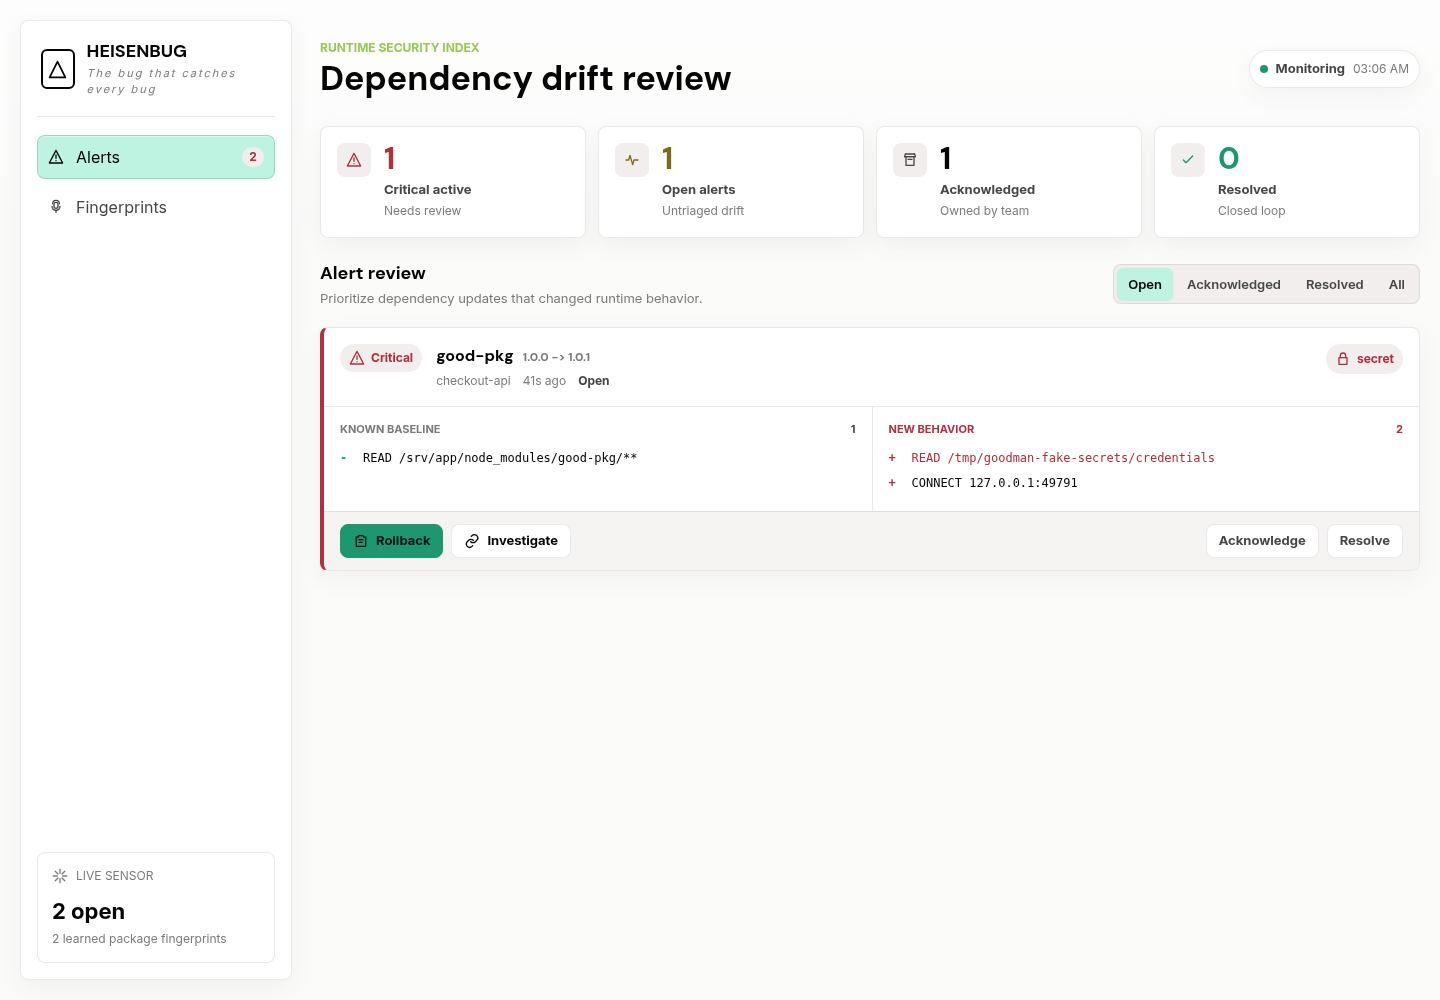
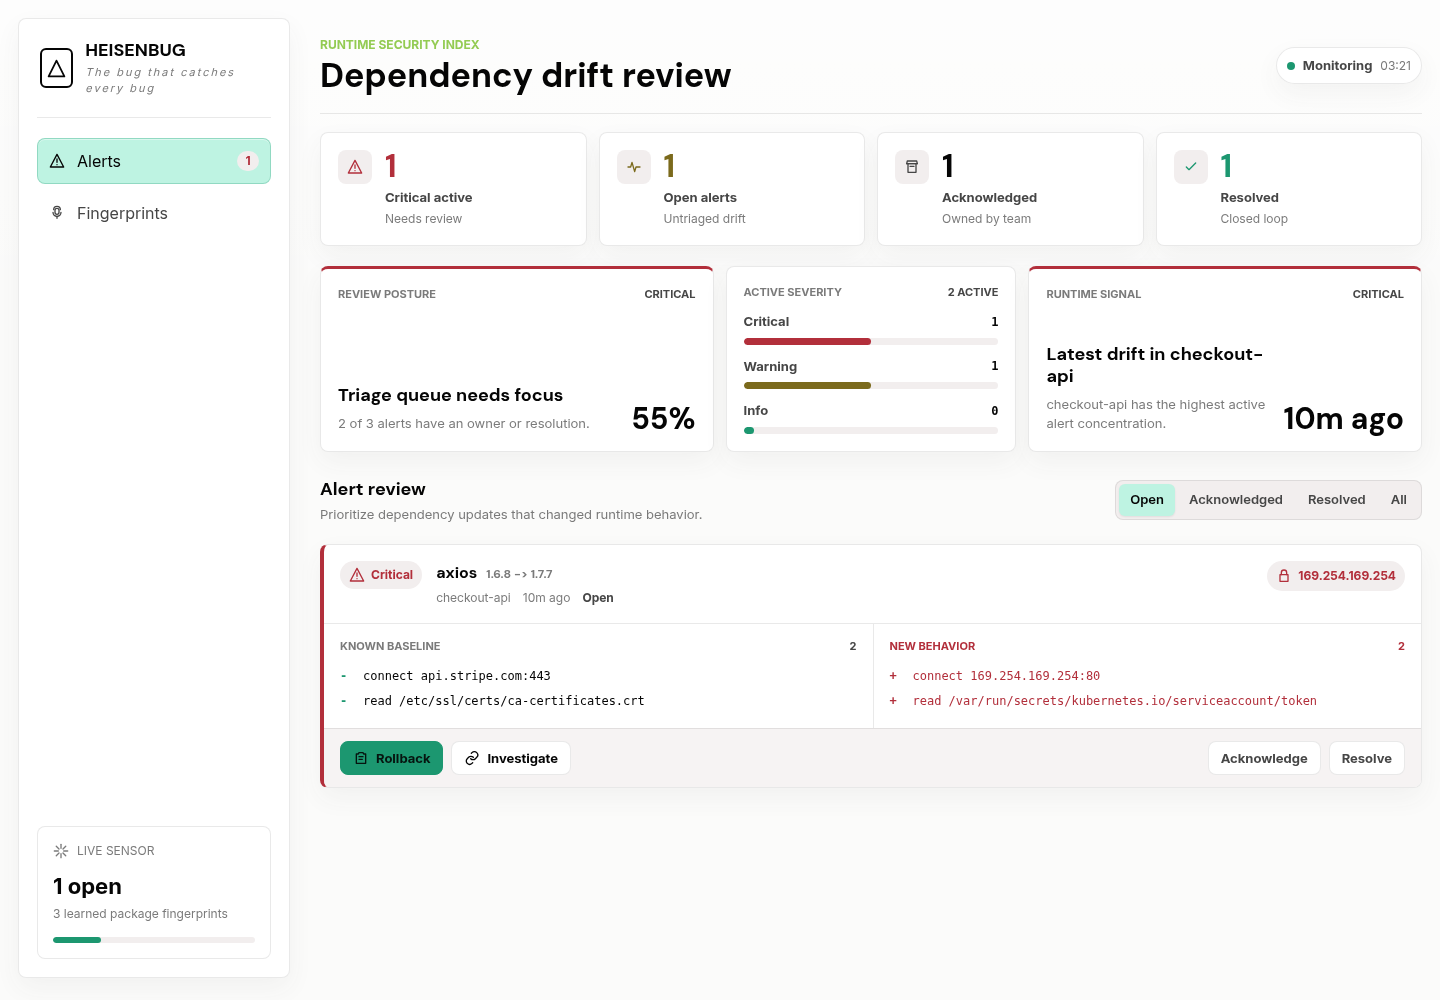
Update dashboard README preview

diff --git a/README.md b/README.md
@@ -15,6 +15,9 @@ to an IP. Goodman tells you which dependency in that process did it.
 
 ![Goodman dashboard showing a critical dependency drift alert](docs/images/dashboard.png)
 
+The embedded HEISENBUG dashboard is a production React/Vite UI with live alert
+review, fingerprint exploration, SSE updates, and responsive mobile layouts.
+
 ## What It Detects
 
 Goodman is built for dependency behavior drift: